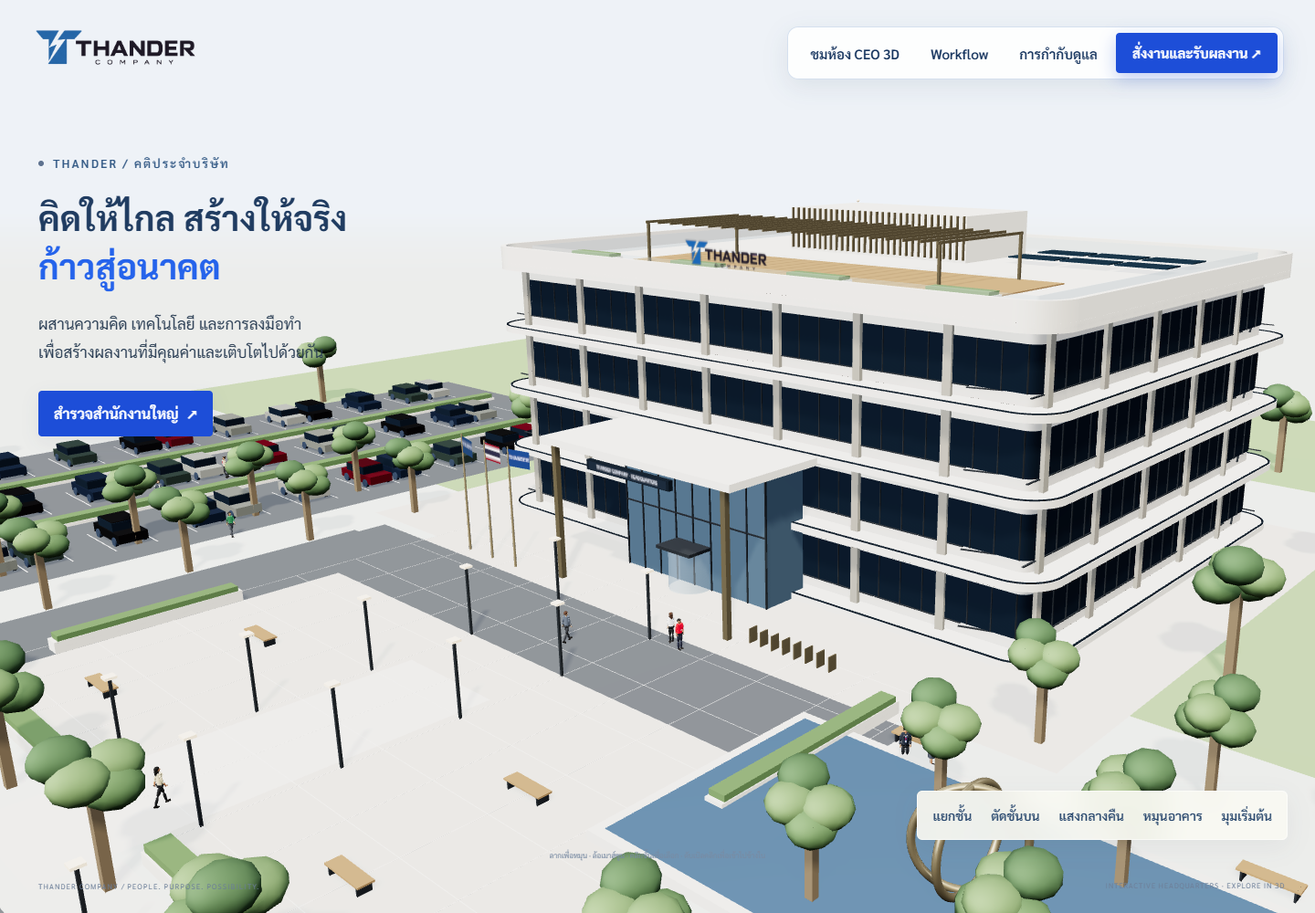
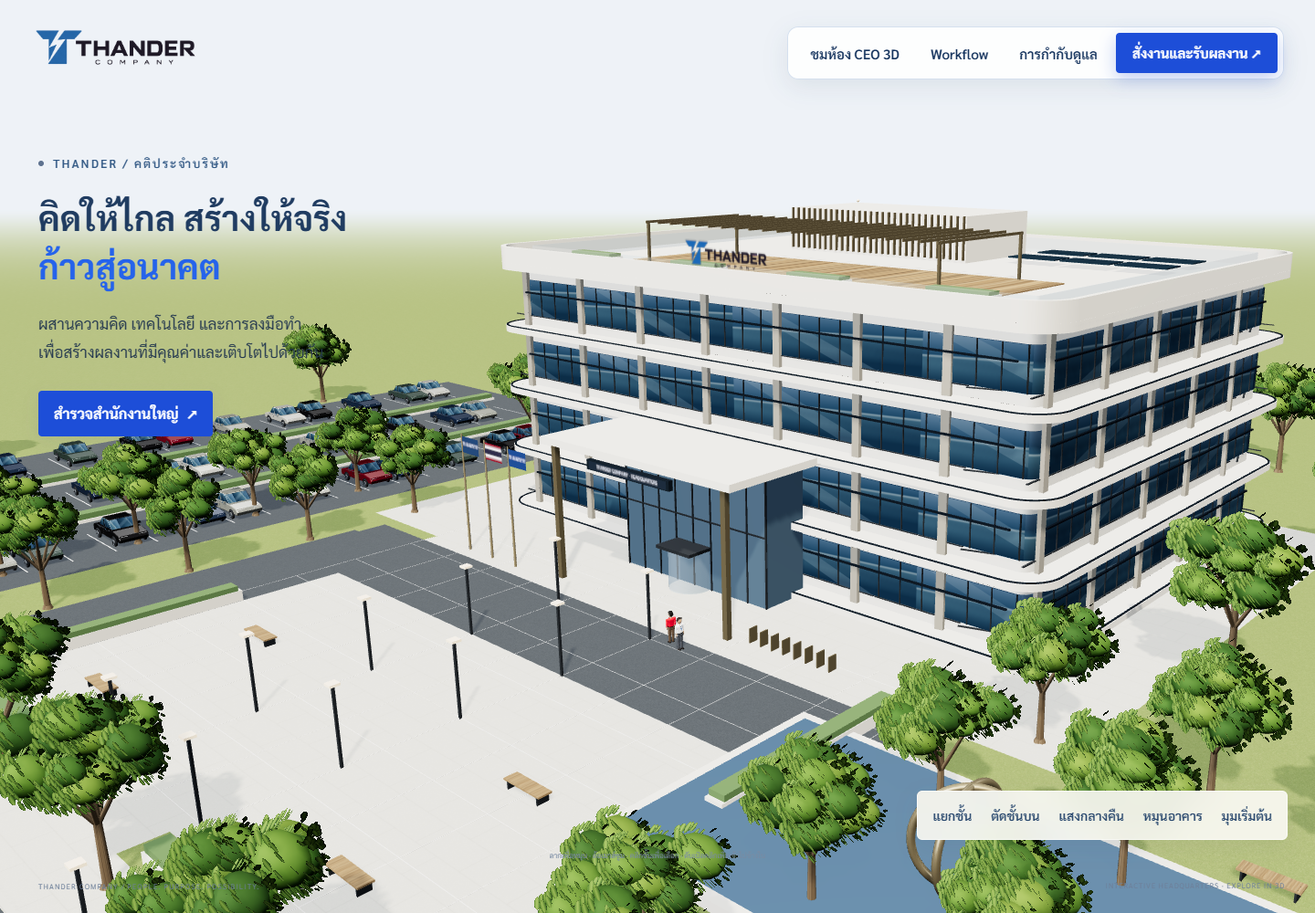
Show sculpted THANDER staff and textured 3D campus

diff --git a/Portfolio.html b/Portfolio.html
@@ -3439,13 +3439,13 @@ a:focus-visible, button:focus-visible, input:focus-visible { outline: 2px solid 
         <!-- Slide 6: THANDER Company -->
         <div class="proj-slide" style="min-width:100%;overflow-y:auto;max-height:calc(90vh - 130px);">
           <div style="width:100%;aspect-ratio:600/225;background:#172d4c;overflow:hidden;position:relative;">
-            <img src="images/projects/thander-company.png" width="1440" height="1000" loading="lazy" alt="THANDER Company — สำนักงานใหญ่ 3D พร้อมคติบริษัท มุมมองมือถือและห้องทำงาน CEO" style="width:100%;height:100%;object-fit:cover;object-position:center 47%;">
+            <img src="images/projects/thander-company.png" width="1440" height="1000" loading="lazy" alt="THANDER Company — พนักงาน 3D แบบเกม อาคารมีผิววัสดุ ต้นไม้ รถยนต์ และถนนที่มีมิติ" style="width:100%;height:100%;object-fit:cover;object-position:center 47%;">
             <span style="position:absolute;bottom:12px;left:16px;background:#152b32ed;padding:6px 10px;border-radius:6px;font-size:0.6rem;letter-spacing:0.1em;color:#c5daff;">4 FLOORS · 12 DEPARTMENTS · 66 ROLES</span>
           </div>
           <div style="padding:1.75rem;">
             <span style="display:inline-block;font-size:0.68rem;font-weight:700;letter-spacing:0.12em;color:#93bfff;border:1px solid #93bfff44;border-radius:99px;padding:0.25rem 0.75rem;margin-bottom:1rem;">3D Campus · Workflow · CEO Workspace</span>
             <h3 class="bento-title" style="margin-bottom:0.65rem;">THANDER Company</h3>
-            <p style="font-size:0.9rem;line-height:1.85;color:rgba(248,250,252,0.72);margin:0 0 1.25rem;">สำนักงานใหญ่ 3D ออกแบบใหม่ระดับบริษัทชั้นนำ 4 ชั้น 12 ฝ่าย 66 บทบาท ขนาดห้องตามมาตรฐานออฟฟิศจริง มีล็อบบี้ ห้องประชุมชั้นละห้อง (12/8/6 ที่นั่ง) ผนังห้องและผนังอาคารแบบทึบ Phone Booth และ Café ทุกชั้น พนักงานเดินไปมาระหว่างแผนกตลอดเวลา และหน้าแรกมีคนเดินเข้า–ออกอาคาร พนักงานทุกคนมีชื่อและชื่อเล่น (สมมติ) บนป้ายตั้งสองหน้าขนาดใหญ่ รูปร่างและการแต่งกายสมจริงตามเพศ และมีบทสนทนาขึ้นเป็นข้อความทุกครั้งที่เดินมารับหรือส่งงานกับ CEO พร้อมคติ “คิดให้ไกล สร้างให้จริง ก้าวสู่อนาคต” ปรับอาคารเป็น 44×32 เมตร ห้องและโต๊ะมีขนาดตามจำนวนคน เพิ่มฝ่ายครีเอทีฟและสื่อชั้น 2 พร้อมกราฟิกดีไซเนอร์และนักตัดต่อวิดีโอ มีโต๊ะ จอออกแบบและไทม์ไลน์ประจำตัว พับกรอบรายละเอียดเพื่อเห็นผังภายในครบทุกชั้น เปิดดูแผนกและหน้าที่ได้เมื่อต้องการ มีคู่มือขั้นตอนการทำงานแบบทางการ 8 หัวข้อ (สถานะงาน หน้าที่ทุกฝ่าย วิธีเขียนโจทย์ แบบทดสอบ) และไดอะแกรม SVG อธิบายการทำงาน มีระบบฝากอนุมัติให้ผู้รักษาการ (G-01) ใช้ AI ตรวจและอนุมัติงานทั่วไปแทนเมื่อ CEO ไม่อยู่ โดยงานสำคัญ 7 เรื่องและงานกฎหมายยังรอ CEO และ CEO ยกเลิกการอนุมัติแทนได้ทุกฝ่าย ห้อง CEO THANDER ชั้น 1 มี CEO ประจำห้องเพียงคนเดียว เมื่อสั่งงาน ตัวแทนแผนกเดินผ่านทางเดินและลิฟต์มารับโจทย์แล้วกลับโต๊ะ เมื่อผลงานพร้อมตรวจจะกลับมานำเสนอ พร้อมเปิดคำตอบและไฟล์ให้ CEO ตรวจรับ มีปุ่มลองฉากตัวอย่างโดยไม่เรียก AI เชื่อมพื้นที่ทำงานส่วนตัว มีตัวเลขสรุป ค้นหา กรอง ลบงาน และกู้คืนจากถังขยะ สั่งงานครีเอทีฟได้เป็นแบบกราฟิก HTML, Storyboard และแผนตัดต่อ (ยังไม่เรนเดอร์ MP4) พร้อมสั่งงาน Claude Opus 5.5 ขอแก้ไข ตรวจรับ และดาวน์โหลดไฟล์ภาษาไทยสำหรับ Excel กำหนดวันรับงานแบบวัน/เดือน/ปี พ.ศ. เช่น 21/10/2569 แนบเอกสารอ้างอิงสูงสุด 3 ไฟล์ รวม 10 MB ผ่านพื้นที่ส่วนตัว พร้อมแสดงขนาดและความคืบหน้า มีตัวอย่างแผนคอนเทนต์ 7 วันให้ทดลองโดยไม่ใช้ AI ส่วนงาน AI จริงใช้โควต้า Free Tier ของโปรเจกต์ Google ที่ไม่เปิด Billing และไม่สลับไป OpenAI</p>
+            <p style="font-size:0.9rem;line-height:1.85;color:rgba(248,250,252,0.72);margin:0 0 1.25rem;">สำนักงานใหญ่ 3D ออกแบบใหม่ระดับบริษัทชั้นนำ 4 ชั้น 12 ฝ่าย 66 บทบาท ขนาดห้องตามมาตรฐานออฟฟิศจริง มีล็อบบี้ ห้องประชุมชั้นละห้อง (12/8/6 ที่นั่ง) ผนังห้องและผนังอาคารแบบทึบ Phone Booth และ Café ทุกชั้น พนักงานเดินไปมาระหว่างแผนกตลอดเวลา และหน้าแรกมีคนเดินเข้า–ออกอาคาร พนักงานทุกคนมีชื่อและชื่อเล่น (สมมติ) บนป้ายตั้งสองหน้าขนาดใหญ่ ตัวละคร 3D รูปทรงแบบเกม มีรูปหน้า กราม ทรงผม ปกเสื้อ สูท มือ รองเท้า และบัตรพนักงานสีน้ำเงิน พร้อมต้นไม้พุ่มหลายชั้นที่มีกิ่งและใบ รถตัวถังโค้งพร้อมล้อ กระจก และไฟ ถนนแอสฟัลต์มีขอบทางและท่อระบายน้ำ ผิวหิน คอนกรีต ไม้ หญ้า และกระจกอาคารมีรายละเอียด แสงและเงาช่วยแสดงความลึก และมีบทสนทนาขึ้นเป็นข้อความทุกครั้งที่เดินมารับหรือส่งงานกับ CEO พร้อมคติ “คิดให้ไกล สร้างให้จริง ก้าวสู่อนาคต” ปรับอาคารเป็น 44×32 เมตร ห้องและโต๊ะมีขนาดตามจำนวนคน เพิ่มฝ่ายครีเอทีฟและสื่อชั้น 2 พร้อมกราฟิกดีไซเนอร์และนักตัดต่อวิดีโอ มีโต๊ะ จอออกแบบและไทม์ไลน์ประจำตัว พับกรอบรายละเอียดเพื่อเห็นผังภายในครบทุกชั้น เปิดดูแผนกและหน้าที่ได้เมื่อต้องการ มีคู่มือขั้นตอนการทำงานแบบทางการ 8 หัวข้อ (สถานะงาน หน้าที่ทุกฝ่าย วิธีเขียนโจทย์ แบบทดสอบ) และไดอะแกรม SVG อธิบายการทำงาน มีระบบฝากอนุมัติให้ผู้รักษาการ (G-01) ใช้ AI ตรวจและอนุมัติงานทั่วไปแทนเมื่อ CEO ไม่อยู่ โดยงานสำคัญ 7 เรื่องและงานกฎหมายยังรอ CEO และ CEO ยกเลิกการอนุมัติแทนได้ทุกฝ่าย ห้อง CEO THANDER ชั้น 1 มี CEO ประจำห้องเพียงคนเดียว เมื่อสั่งงาน ตัวแทนแผนกเดินผ่านทางเดินและลิฟต์มารับโจทย์แล้วกลับโต๊ะ เมื่อผลงานพร้อมตรวจจะกลับมานำเสนอ พร้อมเปิดคำตอบและไฟล์ให้ CEO ตรวจรับ มีปุ่มลองฉากตัวอย่างโดยไม่เรียก AI เชื่อมพื้นที่ทำงานส่วนตัว มีตัวเลขสรุป ค้นหา กรอง ลบงาน และกู้คืนจากถังขยะ สั่งงานครีเอทีฟได้เป็นแบบกราฟิก HTML, Storyboard และแผนตัดต่อ (ยังไม่เรนเดอร์ MP4) พร้อมสั่งงาน Claude Opus 5.5 ขอแก้ไข ตรวจรับ และดาวน์โหลดไฟล์ภาษาไทยสำหรับ Excel กำหนดวันรับงานแบบวัน/เดือน/ปี พ.ศ. เช่น 21/10/2569 แนบเอกสารอ้างอิงสูงสุด 3 ไฟล์ รวม 10 MB ผ่านพื้นที่ส่วนตัว พร้อมแสดงขนาดและความคืบหน้า มีตัวอย่างแผนคอนเทนต์ 7 วันให้ทดลองโดยไม่ใช้ AI ส่วนงาน AI จริงใช้โควต้า Free Tier ของโปรเจกต์ Google ที่ไม่เปิด Billing และไม่สลับไป OpenAI</p>
             <div style="display:flex;flex-wrap:wrap;gap:0.4rem;margin-bottom:1.5rem;">
               <span style="font-size:0.7rem;padding:0.25rem 0.7rem;border:1px solid #93bfff4d;color:#93bfff;border-radius:99px;">Three.js</span><span style="font-size:0.7rem;padding:0.25rem 0.7rem;border:1px solid #93bfff4d;color:#93bfff;border-radius:99px;">Claude Opus 5.5</span><span style="font-size:0.7rem;padding:0.25rem 0.7rem;border:1px solid #93bfff4d;color:#93bfff;border-radius:99px;">Vercel Functions</span><span style="font-size:0.7rem;padding:0.25rem 0.7rem;border:1px solid #93bfff4d;color:#93bfff;border-radius:99px;">Private Blob</span>
             </div>
@@ -3467,7 +3467,8 @@ a:focus-visible, button:focus-visible, input:focus-visible { outline: 2px solid 
               <a href="images/projects/thander-floor-plan.png" target="_blank" rel="noopener" style="color:#93bfff;font-size:0.82rem;">ดูผังชั้นขนาดห้องจริง ↗</a>
               <a href="images/projects/thander-ceo-office.png" target="_blank" rel="noopener" style="color:#93bfff;font-size:0.82rem;">ดูห้อง CEO ใหม่ ↗</a>
               <a href="images/projects/thander-nameplates.png" target="_blank" rel="noopener" style="color:#93bfff;font-size:0.82rem;">ดูป้ายชื่อโต๊ะแบบใหม่ ↗</a>
-              <a href="images/projects/thander-staff-realistic.png" target="_blank" rel="noopener" style="color:#93bfff;font-size:0.82rem;">ดูพนักงาน 3D แบบสมจริง ↗</a>
+              <a href="images/projects/thander-staff-sculpted.png" target="_blank" rel="noopener" style="color:#93bfff;font-size:0.82rem;">ดูพนักงาน 3D รูปทรงใหม่ ↗</a>
+              <a href="images/projects/thander-landscape-detailed.png" target="_blank" rel="noopener" style="color:#93bfff;font-size:0.82rem;">ดูต้นไม้ รถยนต์ และถนน 3D ↗</a>
               <a href="images/projects/thander-visit-dialogue.png" target="_blank" rel="noopener" style="color:#93bfff;font-size:0.82rem;">ดูบทสนทนาตอนรับ–ส่งงาน ↗</a>
               <a href="images/projects/thander-staff-names.png" target="_blank" rel="noopener" style="color:#93bfff;font-size:0.82rem;">ดูภาพป้ายชื่อพนักงาน ↗</a>
               <a href="images/projects/thander-attachments-10mb.png" target="_blank" rel="noopener" style="color:#93bfff;font-size:0.82rem;">ดูไฟล์แนบรวม 10 MB ↗</a>

diff --git a/index.html b/index.html
@@ -3439,13 +3439,13 @@ a:focus-visible, button:focus-visible, input:focus-visible { outline: 2px solid 
         <!-- Slide 6: THANDER Company -->
         <div class="proj-slide" style="min-width:100%;overflow-y:auto;max-height:calc(90vh - 130px);">
           <div style="width:100%;aspect-ratio:600/225;background:#172d4c;overflow:hidden;position:relative;">
-            <img src="images/projects/thander-company.png" width="1440" height="1000" loading="lazy" alt="THANDER Company — สำนักงานใหญ่ 3D พร้อมคติบริษัท มุมมองมือถือและห้องทำงาน CEO" style="width:100%;height:100%;object-fit:cover;object-position:center 47%;">
+            <img src="images/projects/thander-company.png" width="1440" height="1000" loading="lazy" alt="THANDER Company — พนักงาน 3D แบบเกม อาคารมีผิววัสดุ ต้นไม้ รถยนต์ และถนนที่มีมิติ" style="width:100%;height:100%;object-fit:cover;object-position:center 47%;">
             <span style="position:absolute;bottom:12px;left:16px;background:#152b32ed;padding:6px 10px;border-radius:6px;font-size:0.6rem;letter-spacing:0.1em;color:#c5daff;">4 FLOORS · 12 DEPARTMENTS · 66 ROLES</span>
           </div>
           <div style="padding:1.75rem;">
             <span style="display:inline-block;font-size:0.68rem;font-weight:700;letter-spacing:0.12em;color:#93bfff;border:1px solid #93bfff44;border-radius:99px;padding:0.25rem 0.75rem;margin-bottom:1rem;">3D Campus · Workflow · CEO Workspace</span>
             <h3 class="bento-title" style="margin-bottom:0.65rem;">THANDER Company</h3>
-            <p style="font-size:0.9rem;line-height:1.85;color:rgba(248,250,252,0.72);margin:0 0 1.25rem;">สำนักงานใหญ่ 3D ออกแบบใหม่ระดับบริษัทชั้นนำ 4 ชั้น 12 ฝ่าย 66 บทบาท ขนาดห้องตามมาตรฐานออฟฟิศจริง มีล็อบบี้ ห้องประชุมชั้นละห้อง (12/8/6 ที่นั่ง) ผนังห้องและผนังอาคารแบบทึบ Phone Booth และ Café ทุกชั้น พนักงานเดินไปมาระหว่างแผนกตลอดเวลา และหน้าแรกมีคนเดินเข้า–ออกอาคาร พนักงานทุกคนมีชื่อและชื่อเล่น (สมมติ) บนป้ายตั้งสองหน้าขนาดใหญ่ รูปร่างและการแต่งกายสมจริงตามเพศ และมีบทสนทนาขึ้นเป็นข้อความทุกครั้งที่เดินมารับหรือส่งงานกับ CEO พร้อมคติ “คิดให้ไกล สร้างให้จริง ก้าวสู่อนาคต” ปรับอาคารเป็น 44×32 เมตร ห้องและโต๊ะมีขนาดตามจำนวนคน เพิ่มฝ่ายครีเอทีฟและสื่อชั้น 2 พร้อมกราฟิกดีไซเนอร์และนักตัดต่อวิดีโอ มีโต๊ะ จอออกแบบและไทม์ไลน์ประจำตัว พับกรอบรายละเอียดเพื่อเห็นผังภายในครบทุกชั้น เปิดดูแผนกและหน้าที่ได้เมื่อต้องการ มีคู่มือขั้นตอนการทำงานแบบทางการ 8 หัวข้อ (สถานะงาน หน้าที่ทุกฝ่าย วิธีเขียนโจทย์ แบบทดสอบ) และไดอะแกรม SVG อธิบายการทำงาน มีระบบฝากอนุมัติให้ผู้รักษาการ (G-01) ใช้ AI ตรวจและอนุมัติงานทั่วไปแทนเมื่อ CEO ไม่อยู่ โดยงานสำคัญ 7 เรื่องและงานกฎหมายยังรอ CEO และ CEO ยกเลิกการอนุมัติแทนได้ทุกฝ่าย ห้อง CEO THANDER ชั้น 1 มี CEO ประจำห้องเพียงคนเดียว เมื่อสั่งงาน ตัวแทนแผนกเดินผ่านทางเดินและลิฟต์มารับโจทย์แล้วกลับโต๊ะ เมื่อผลงานพร้อมตรวจจะกลับมานำเสนอ พร้อมเปิดคำตอบและไฟล์ให้ CEO ตรวจรับ มีปุ่มลองฉากตัวอย่างโดยไม่เรียก AI เชื่อมพื้นที่ทำงานส่วนตัว มีตัวเลขสรุป ค้นหา กรอง ลบงาน และกู้คืนจากถังขยะ สั่งงานครีเอทีฟได้เป็นแบบกราฟิก HTML, Storyboard และแผนตัดต่อ (ยังไม่เรนเดอร์ MP4) พร้อมสั่งงาน Claude Opus 5.5 ขอแก้ไข ตรวจรับ และดาวน์โหลดไฟล์ภาษาไทยสำหรับ Excel กำหนดวันรับงานแบบวัน/เดือน/ปี พ.ศ. เช่น 21/10/2569 แนบเอกสารอ้างอิงสูงสุด 3 ไฟล์ รวม 10 MB ผ่านพื้นที่ส่วนตัว พร้อมแสดงขนาดและความคืบหน้า มีตัวอย่างแผนคอนเทนต์ 7 วันให้ทดลองโดยไม่ใช้ AI ส่วนงาน AI จริงใช้โควต้า Free Tier ของโปรเจกต์ Google ที่ไม่เปิด Billing และไม่สลับไป OpenAI</p>
+            <p style="font-size:0.9rem;line-height:1.85;color:rgba(248,250,252,0.72);margin:0 0 1.25rem;">สำนักงานใหญ่ 3D ออกแบบใหม่ระดับบริษัทชั้นนำ 4 ชั้น 12 ฝ่าย 66 บทบาท ขนาดห้องตามมาตรฐานออฟฟิศจริง มีล็อบบี้ ห้องประชุมชั้นละห้อง (12/8/6 ที่นั่ง) ผนังห้องและผนังอาคารแบบทึบ Phone Booth และ Café ทุกชั้น พนักงานเดินไปมาระหว่างแผนกตลอดเวลา และหน้าแรกมีคนเดินเข้า–ออกอาคาร พนักงานทุกคนมีชื่อและชื่อเล่น (สมมติ) บนป้ายตั้งสองหน้าขนาดใหญ่ ตัวละคร 3D รูปทรงแบบเกม มีรูปหน้า กราม ทรงผม ปกเสื้อ สูท มือ รองเท้า และบัตรพนักงานสีน้ำเงิน พร้อมต้นไม้พุ่มหลายชั้นที่มีกิ่งและใบ รถตัวถังโค้งพร้อมล้อ กระจก และไฟ ถนนแอสฟัลต์มีขอบทางและท่อระบายน้ำ ผิวหิน คอนกรีต ไม้ หญ้า และกระจกอาคารมีรายละเอียด แสงและเงาช่วยแสดงความลึก และมีบทสนทนาขึ้นเป็นข้อความทุกครั้งที่เดินมารับหรือส่งงานกับ CEO พร้อมคติ “คิดให้ไกล สร้างให้จริง ก้าวสู่อนาคต” ปรับอาคารเป็น 44×32 เมตร ห้องและโต๊ะมีขนาดตามจำนวนคน เพิ่มฝ่ายครีเอทีฟและสื่อชั้น 2 พร้อมกราฟิกดีไซเนอร์และนักตัดต่อวิดีโอ มีโต๊ะ จอออกแบบและไทม์ไลน์ประจำตัว พับกรอบรายละเอียดเพื่อเห็นผังภายในครบทุกชั้น เปิดดูแผนกและหน้าที่ได้เมื่อต้องการ มีคู่มือขั้นตอนการทำงานแบบทางการ 8 หัวข้อ (สถานะงาน หน้าที่ทุกฝ่าย วิธีเขียนโจทย์ แบบทดสอบ) และไดอะแกรม SVG อธิบายการทำงาน มีระบบฝากอนุมัติให้ผู้รักษาการ (G-01) ใช้ AI ตรวจและอนุมัติงานทั่วไปแทนเมื่อ CEO ไม่อยู่ โดยงานสำคัญ 7 เรื่องและงานกฎหมายยังรอ CEO และ CEO ยกเลิกการอนุมัติแทนได้ทุกฝ่าย ห้อง CEO THANDER ชั้น 1 มี CEO ประจำห้องเพียงคนเดียว เมื่อสั่งงาน ตัวแทนแผนกเดินผ่านทางเดินและลิฟต์มารับโจทย์แล้วกลับโต๊ะ เมื่อผลงานพร้อมตรวจจะกลับมานำเสนอ พร้อมเปิดคำตอบและไฟล์ให้ CEO ตรวจรับ มีปุ่มลองฉากตัวอย่างโดยไม่เรียก AI เชื่อมพื้นที่ทำงานส่วนตัว มีตัวเลขสรุป ค้นหา กรอง ลบงาน และกู้คืนจากถังขยะ สั่งงานครีเอทีฟได้เป็นแบบกราฟิก HTML, Storyboard และแผนตัดต่อ (ยังไม่เรนเดอร์ MP4) พร้อมสั่งงาน Claude Opus 5.5 ขอแก้ไข ตรวจรับ และดาวน์โหลดไฟล์ภาษาไทยสำหรับ Excel กำหนดวันรับงานแบบวัน/เดือน/ปี พ.ศ. เช่น 21/10/2569 แนบเอกสารอ้างอิงสูงสุด 3 ไฟล์ รวม 10 MB ผ่านพื้นที่ส่วนตัว พร้อมแสดงขนาดและความคืบหน้า มีตัวอย่างแผนคอนเทนต์ 7 วันให้ทดลองโดยไม่ใช้ AI ส่วนงาน AI จริงใช้โควต้า Free Tier ของโปรเจกต์ Google ที่ไม่เปิด Billing และไม่สลับไป OpenAI</p>
             <div style="display:flex;flex-wrap:wrap;gap:0.4rem;margin-bottom:1.5rem;">
               <span style="font-size:0.7rem;padding:0.25rem 0.7rem;border:1px solid #93bfff4d;color:#93bfff;border-radius:99px;">Three.js</span><span style="font-size:0.7rem;padding:0.25rem 0.7rem;border:1px solid #93bfff4d;color:#93bfff;border-radius:99px;">Claude Opus 5.5</span><span style="font-size:0.7rem;padding:0.25rem 0.7rem;border:1px solid #93bfff4d;color:#93bfff;border-radius:99px;">Vercel Functions</span><span style="font-size:0.7rem;padding:0.25rem 0.7rem;border:1px solid #93bfff4d;color:#93bfff;border-radius:99px;">Private Blob</span>
             </div>
@@ -3467,7 +3467,8 @@ a:focus-visible, button:focus-visible, input:focus-visible { outline: 2px solid 
               <a href="images/projects/thander-floor-plan.png" target="_blank" rel="noopener" style="color:#93bfff;font-size:0.82rem;">ดูผังชั้นขนาดห้องจริง ↗</a>
               <a href="images/projects/thander-ceo-office.png" target="_blank" rel="noopener" style="color:#93bfff;font-size:0.82rem;">ดูห้อง CEO ใหม่ ↗</a>
               <a href="images/projects/thander-nameplates.png" target="_blank" rel="noopener" style="color:#93bfff;font-size:0.82rem;">ดูป้ายชื่อโต๊ะแบบใหม่ ↗</a>
-              <a href="images/projects/thander-staff-realistic.png" target="_blank" rel="noopener" style="color:#93bfff;font-size:0.82rem;">ดูพนักงาน 3D แบบสมจริง ↗</a>
+              <a href="images/projects/thander-staff-sculpted.png" target="_blank" rel="noopener" style="color:#93bfff;font-size:0.82rem;">ดูพนักงาน 3D รูปทรงใหม่ ↗</a>
+              <a href="images/projects/thander-landscape-detailed.png" target="_blank" rel="noopener" style="color:#93bfff;font-size:0.82rem;">ดูต้นไม้ รถยนต์ และถนน 3D ↗</a>
               <a href="images/projects/thander-visit-dialogue.png" target="_blank" rel="noopener" style="color:#93bfff;font-size:0.82rem;">ดูบทสนทนาตอนรับ–ส่งงาน ↗</a>
               <a href="images/projects/thander-staff-names.png" target="_blank" rel="noopener" style="color:#93bfff;font-size:0.82rem;">ดูภาพป้ายชื่อพนักงาน ↗</a>
               <a href="images/projects/thander-attachments-10mb.png" target="_blank" rel="noopener" style="color:#93bfff;font-size:0.82rem;">ดูไฟล์แนบรวม 10 MB ↗</a>

diff --git a/README.md b/README.md
@@ -43,7 +43,7 @@
 
 | Project | Description |
 |---|---|
-| [THANDER Company](https://thander-company-ai-campus.vercel.app/) | สำนักงานใหญ่ 3D ออกแบบใหม่ระดับบริษัทชั้นนำ 4 ชั้น 12 ฝ่าย 66 บทบาท (ขนาดห้องตามมาตรฐาน ล็อบบี้ ห้องประชุมชั้นละห้อง ผนังทึบ Café พนักงานเดินไปมาตลอดเวลา) พนักงานทุกคนมีชื่อ/ชื่อเล่นสมมติบนป้ายตั้งขนาดใหญ่ การ์ด และการค้นหา ตัวละครสมจริงตามเพศ และบทสนทนาตอนเดินรับ–ส่งงานกับ CEO คติ “คิดให้ไกล สร้างให้จริง ก้าวสู่อนาคต” มุมมองมือถือใหญ่ขึ้น ผังทุกชั้นเห็นครบด้วยกรอบรายละเอียดที่พับได้ พร้อม [Workflow และหน้าที่แต่ละฝ่าย](https://thander-company-ai-campus.vercel.app/workflow.html#departmentDirectory) และห้องทำงาน CEO ส่วนตัวที่มีตัวเลขสรุป ค้นหาและกรองสถานะงาน ลบ/กู้คืนผ่านถังขยะ พร้อมฉากตัวแทนแผนกเดินมารับโจทย์และกลับมานำเสนอเมื่อผลงานพร้อมตรวจ พร้อมห้อง CEO THANDER ในชั้น 1 และฝ่ายครีเอทีฟและสื่อชั้น 2 (กราฟิกดีไซเนอร์/นักตัดต่อวิดีโอ) อาคาร 44×32 เมตร ห้องตามจำนวนคน สั่ง Claude Opus 5.5 ขอแก้ไข ตรวจรับ และดาวน์โหลดภาษาไทยสำหรับ Excel รวม [ตัวอย่างสั่งงานแบบไม่เรียก AI](https://thander-company-ai-campus.vercel.app/workflow.html#practiceLab) (Free Tier ต้องใช้โปรเจกต์ Google ที่ไม่เปิด Billing; โควต้าตามบัญชี) (Private source) |
+| [THANDER Company](https://thander-company-ai-campus.vercel.app/) | สำนักงานใหญ่ 3D ออกแบบใหม่ระดับบริษัทชั้นนำ 4 ชั้น 12 ฝ่าย 66 บทบาท (ขนาดห้องตามมาตรฐาน ล็อบบี้ ห้องประชุมชั้นละห้อง ผนังทึบ Café พนักงานเดินไปมาตลอดเวลา) พนักงานทุกคนมีชื่อ/ชื่อเล่นสมมติบนป้ายตั้งขนาดใหญ่ การ์ด และการค้นหา ตัวละคร 3D รูปทรงแบบเกม มีใบหน้า ทรงผม เสื้อผ้าและข้อต่อ พร้อมผิววัสดุอาคาร พุ่มไม้ที่มีกิ่งและใบ รถยนต์ตัวถังโค้ง ถนนแอสฟัลต์ ขอบทางและแสงเงาที่มีมิติ และบทสนทนาตอนเดินรับ–ส่งงานกับ CEO คติ “คิดให้ไกล สร้างให้จริง ก้าวสู่อนาคต” มุมมองมือถือใหญ่ขึ้น ผังทุกชั้นเห็นครบด้วยกรอบรายละเอียดที่พับได้ พร้อม [Workflow และหน้าที่แต่ละฝ่าย](https://thander-company-ai-campus.vercel.app/workflow.html#departmentDirectory) และห้องทำงาน CEO ส่วนตัวที่มีตัวเลขสรุป ค้นหาและกรองสถานะงาน ลบ/กู้คืนผ่านถังขยะ พร้อมฉากตัวแทนแผนกเดินมารับโจทย์และกลับมานำเสนอเมื่อผลงานพร้อมตรวจ พร้อมห้อง CEO THANDER ในชั้น 1 และฝ่ายครีเอทีฟและสื่อชั้น 2 (กราฟิกดีไซเนอร์/นักตัดต่อวิดีโอ) อาคาร 44×32 เมตร ห้องตามจำนวนคน สั่ง Claude Opus 5.5 ขอแก้ไข ตรวจรับ และดาวน์โหลดภาษาไทยสำหรับ Excel รวม [ตัวอย่างสั่งงานแบบไม่เรียก AI](https://thander-company-ai-campus.vercel.app/workflow.html#practiceLab) (Free Tier ต้องใช้โปรเจกต์ Google ที่ไม่เปิด Billing; โควต้าตามบัญชี) (Private source) |
 | [Thander Usage](https://thander-usage.vercel.app/) | Windows desktop robot companion for Claude/Codex usage, articulated greeting and interactive web demo. [Source](https://github.com/tanakrthum254614-max/thander-usage) |
 | [Gold Signal](https://github.com/tanakrthum254614-max/gold-signal) | แพลตฟอร์มสัญญาณการซื้อขายทองคำแบบเรียลไทม์ พร้อมผลทดสอบย้อนหลังและการเปิดเผยผลการซื้อขายจริง |
 | [IT Asset Tracker](https://github.com/tanakrthum254614-max/it-asset-tracker) | ระบบทะเบียนครุภัณฑ์ไอทีพร้อมป้าย QR และการติดตามการรับประกัน |
@@ -100,3 +100,6 @@ THANDER reference upload update: up to three text/data files totaling 10 MB, wit
 
 
 Production verification on 21 October 2026 uploaded exactly 10,485,760 fixture bytes through the browser SDK to Private Blob, read the file back with a matching SHA-256 hash, verified anonymous/cross-origin rejection and denied public reads, then deleted the test blob. No actual company jobs or AI calls were made.
+
+
+THANDER visual update (21 October 2026): shared sculpted characters across all 66 roles and the CEO; locally generated surface textures; volumetric trees and leaves; detailed cars, raised kerbs and drains. New [character preview](images/projects/thander-staff-sculpted.png) and [landscape preview](images/projects/thander-landscape-detailed.png). Build/check, 65 tests and Edge desktop/mobile checks passed; no AI calls.
